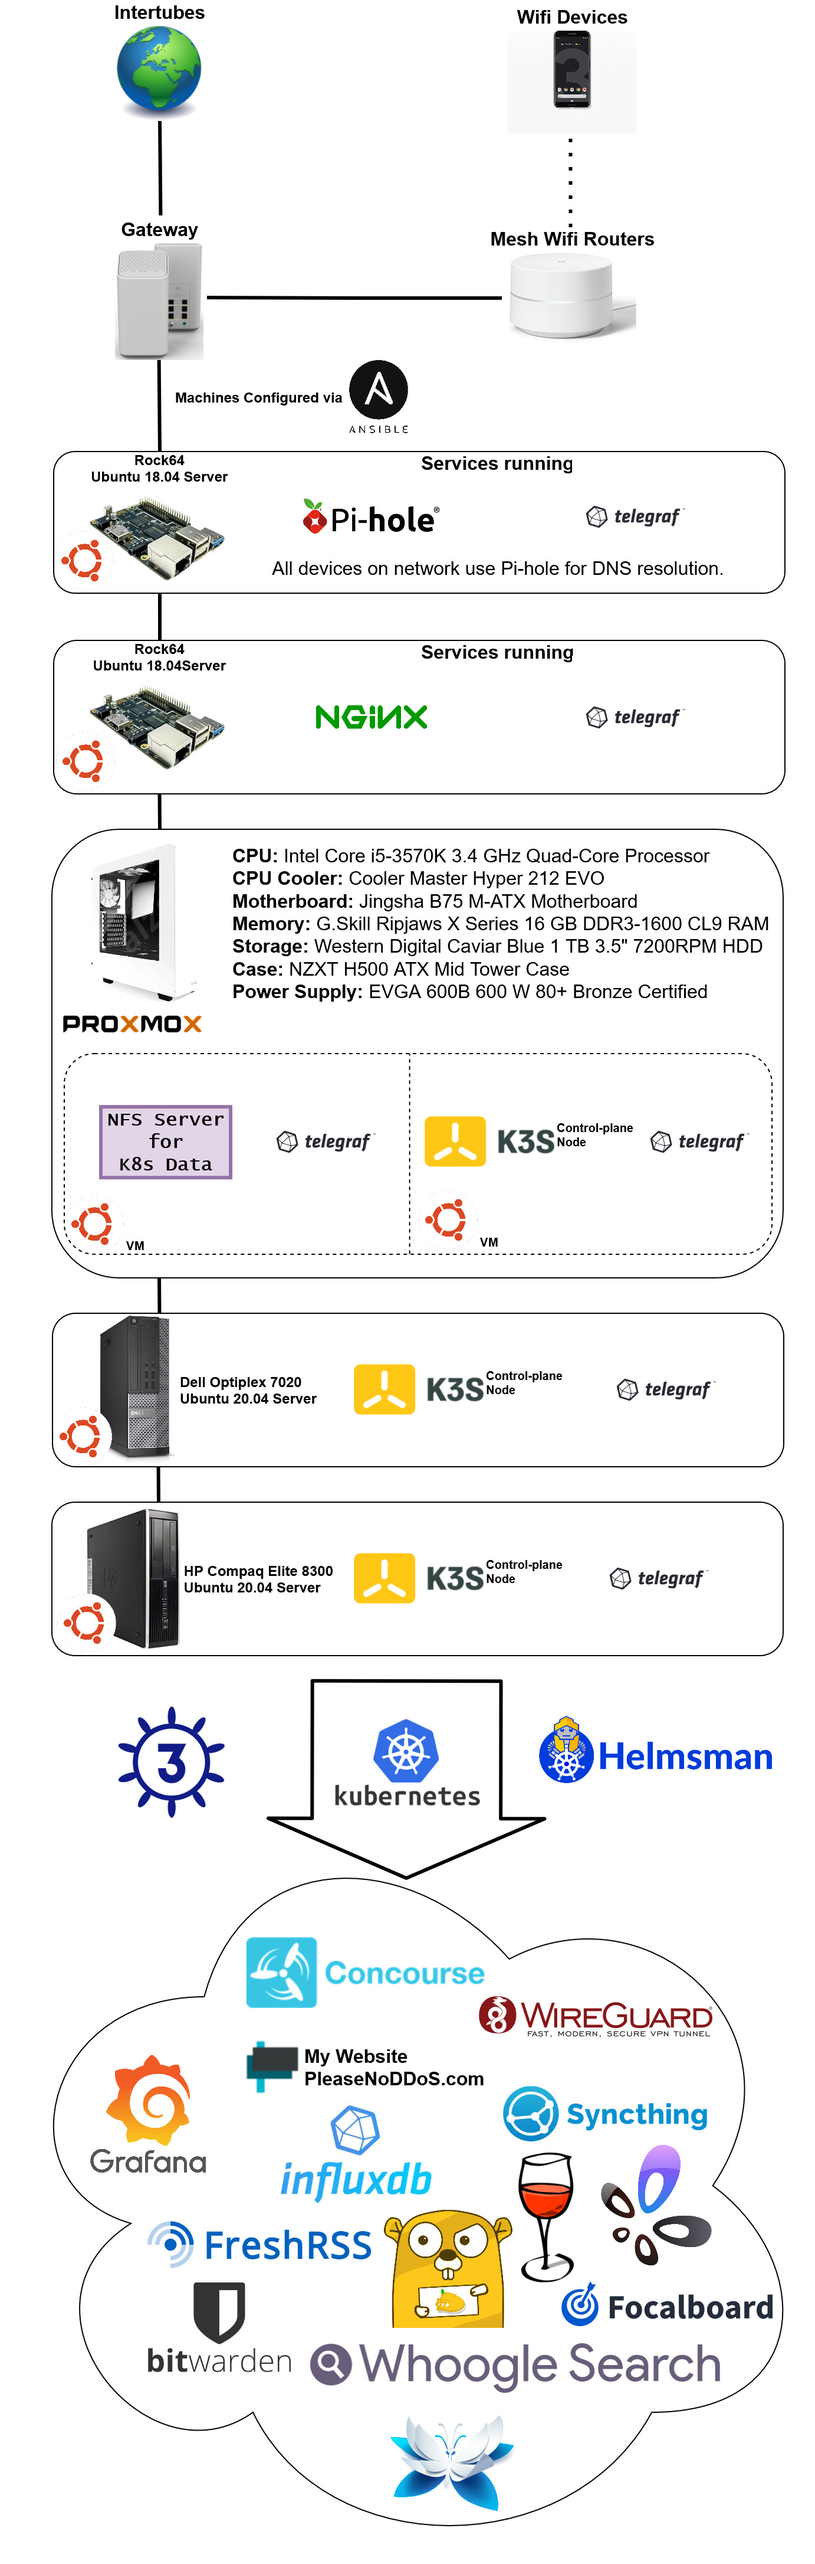
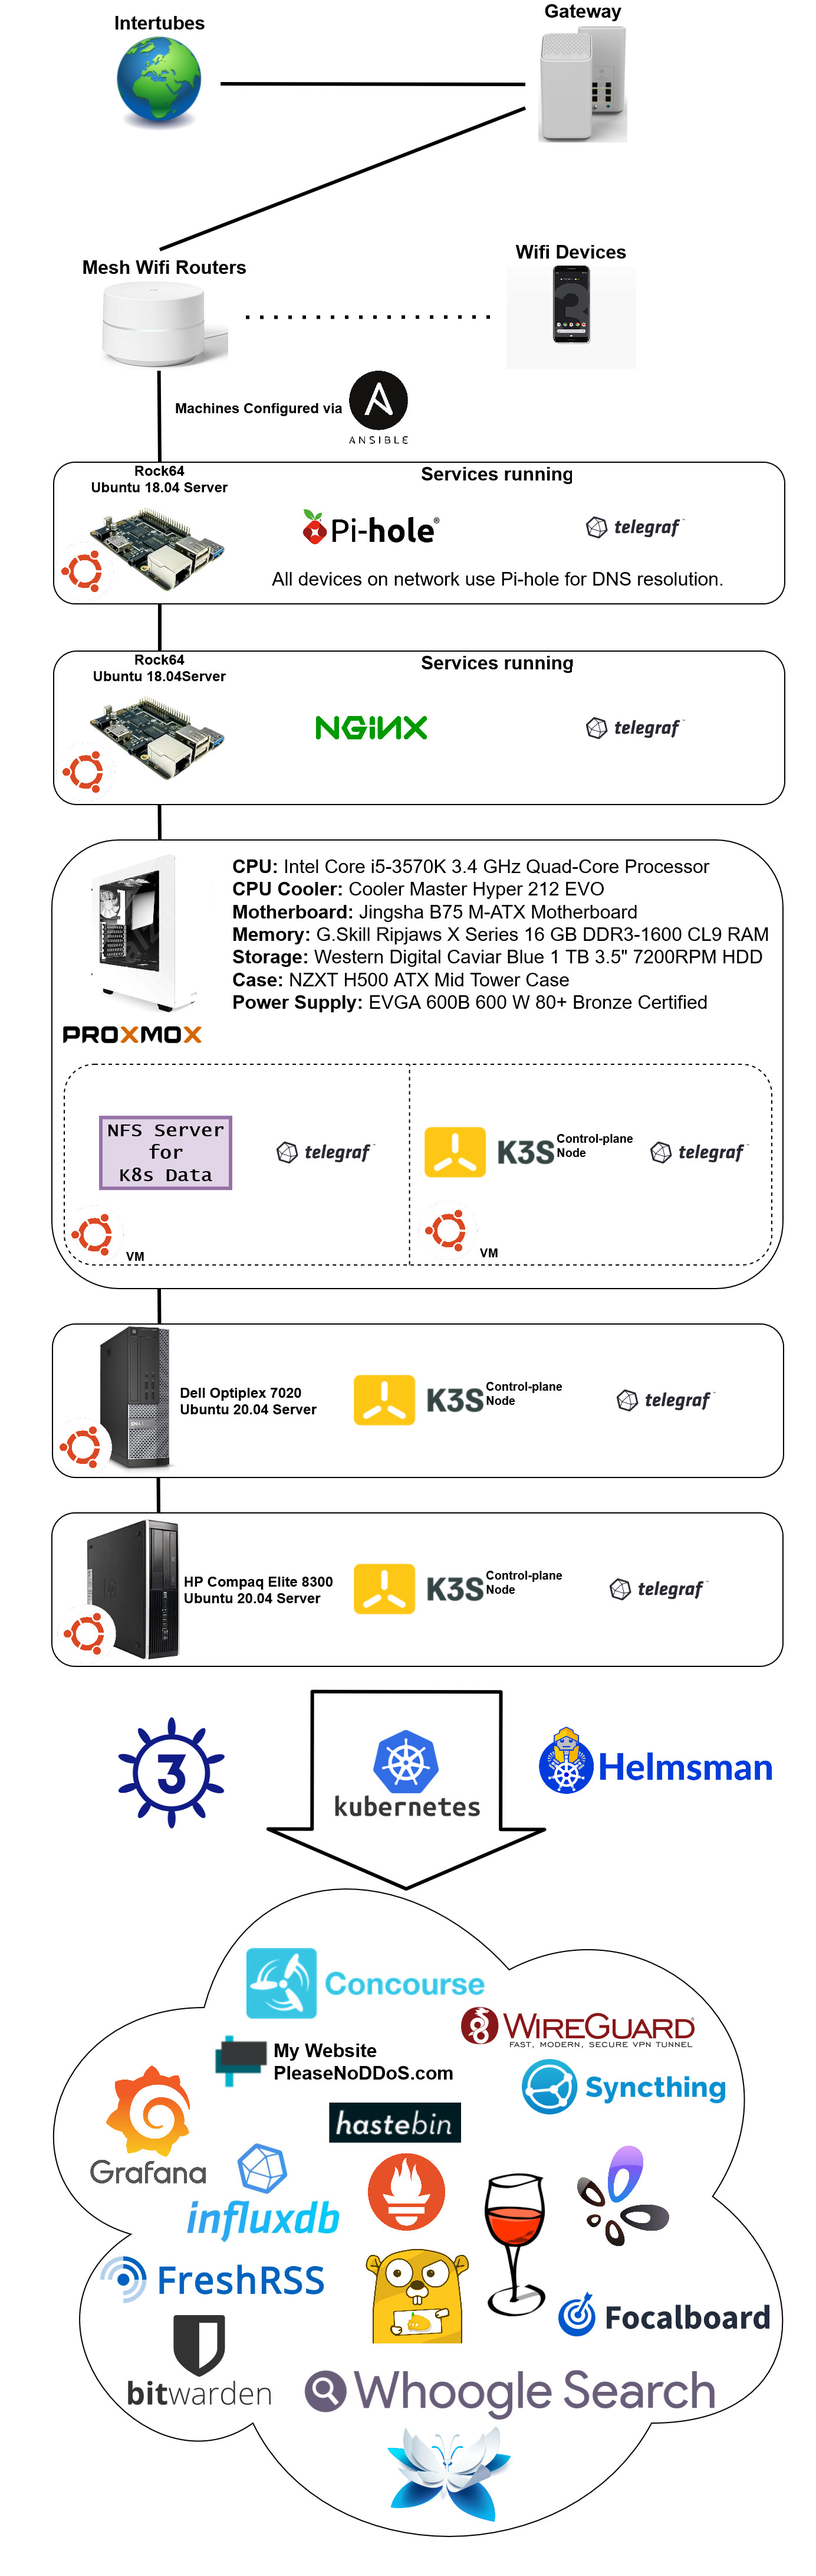
new old hardware

diff --git a/flipenergy/content/post/new_old_hardware.md b/flipenergy/content/post/new_old_hardware.md
@@ -1,0 +1,18 @@
+---
+title: "New (Old) Hardware + HA K3s + Prometheus"
+date: 2021-07-20T18:12:59-07:00
+draft: false
+---
+
+![The Homelab in all its glory](lab.jpg)
+*The MacBook is for work. I just SSH into it.*
+
+Despite having no need for extra computing power, and despite only wanting to buy one extra computer... I ended up with two. To be fair, it was very inexpensive for the both of them and now with 3 roughly equivalent machines, I was finally able to have an HA K3s cluster. Each node is also a Kubernetes control-plane so I can cordon and drain a node to upgrade or whatever without disrupting service! All traffic to the k8s cluster is now load balanced by my rock64 load balancer.
+
+Next thing I want to do is to setup keep-alive and Nginx on another rock64 of mine so I have auto-failover between two load balancers. This would eliminate another single point of failure server-wise. I may eventually have to Pi-Hole setups too but that's been quite solid and doesn't bring down the network when down.
+
+I also setup Prometheus and some scrapers so I can get k8s metrics and so far it's been quite helpful since I can now tell which of my pods are taking up the most resources at a glance.
+
+![Snippet of the Resources Dashboard](resources.png)
+![Snippet of the Kubelet Dashboard](kubelet.png)
+![Snippet of the Network Dashboard](network.png)
